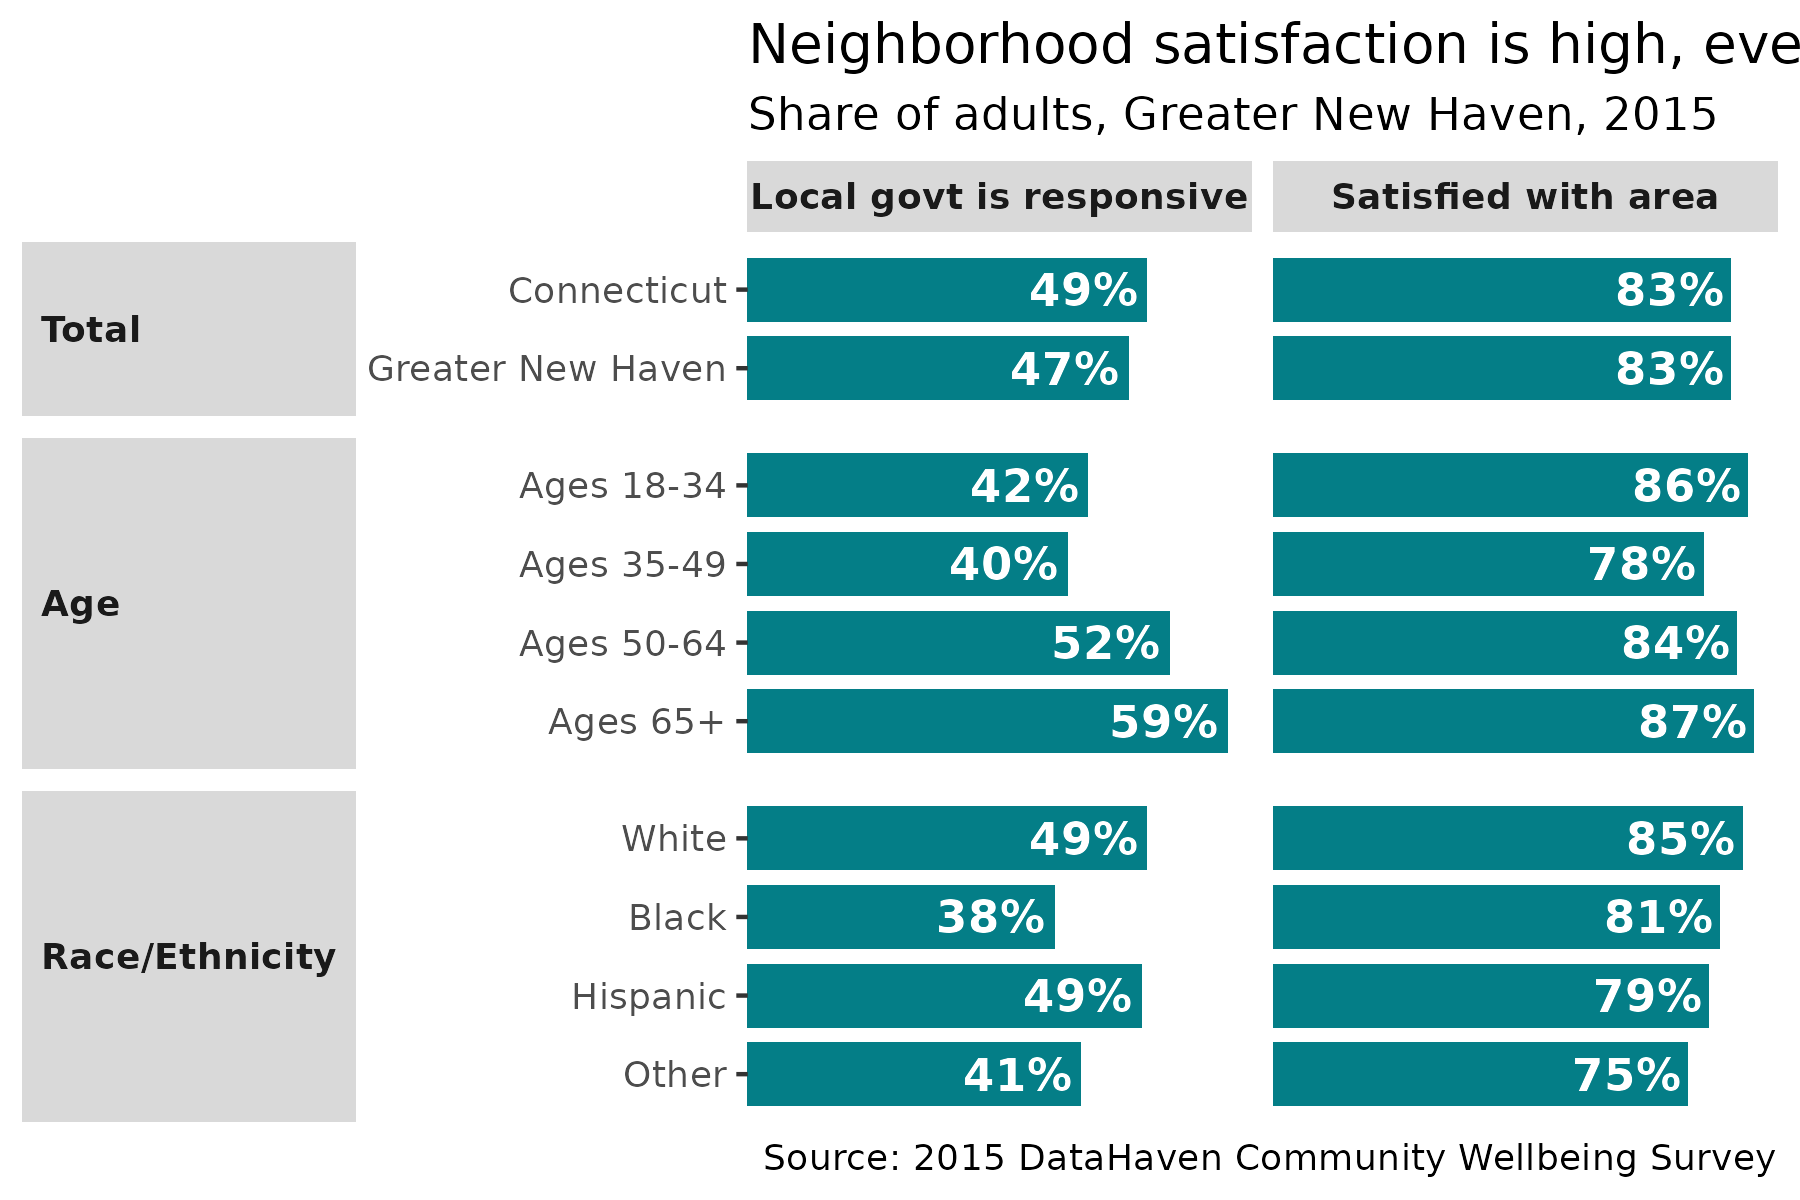
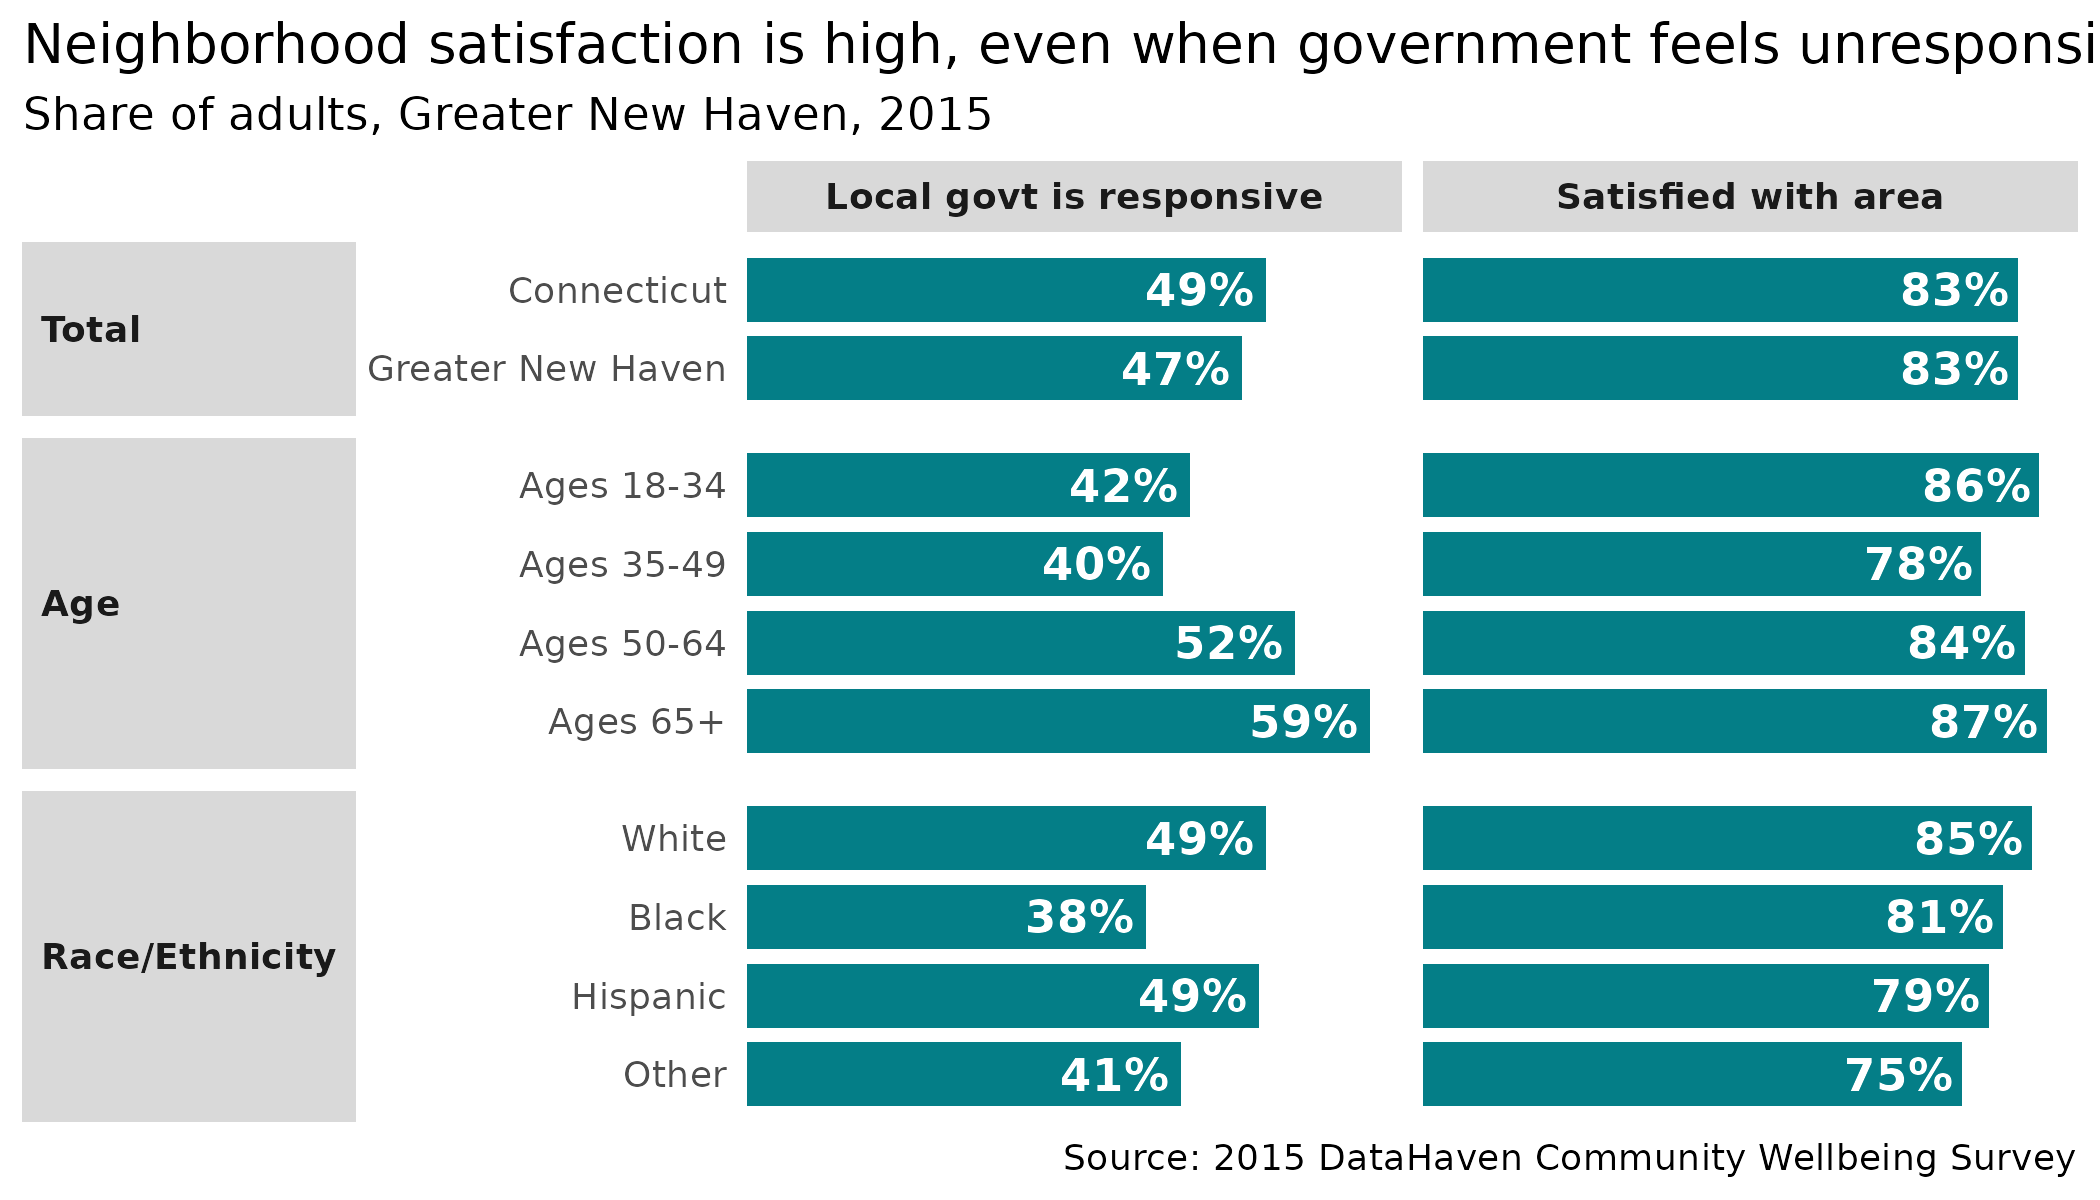
Built site for cwi: 0.3.0@4366a87

diff --git a/articles/crosstabs.html b/articles/crosstabs.html
@@ -111,7 +111,20 @@
 <div class="sourceCode" id="cb1"><pre class="downlit sourceCode r">
 <code class="sourceCode R"><span class="kw"><a href="https://rdrr.io/r/base/library.html">library</a></span><span class="op">(</span><span class="va"><a href="https://dplyr.tidyverse.org">dplyr</a></span><span class="op">)</span>
 <span class="kw"><a href="https://rdrr.io/r/base/library.html">library</a></span><span class="op">(</span><span class="va"><a href="http://stringr.tidyverse.org">stringr</a></span><span class="op">)</span>
-<span class="kw"><a href="https://rdrr.io/r/base/library.html">library</a></span><span class="op">(</span><span class="va"><a href="https://github.com/CT-Data-Haven/cwi">cwi</a></span><span class="op">)</span></code></pre></div>
+<span class="kw"><a href="https://rdrr.io/r/base/library.html">library</a></span><span class="op">(</span><span class="va"><a href="https://github.com/CT-Data-Haven/cwi">cwi</a></span><span class="op">)</span>
+
+<span class="co"># tiny theme of a few cleaned up arguments</span>
+<span class="va">theme_clean</span> <span class="op">&lt;-</span> <span class="kw">function</span><span class="op">(</span><span class="va">...</span><span class="op">)</span> <span class="op">{</span>
+  <span class="fu"><a href="https://ggplot2.tidyverse.org/reference/ggtheme.html">theme_gray</a></span><span class="op">(</span><span class="op">)</span> <span class="op">+</span>
+    <span class="fu"><a href="https://ggplot2.tidyverse.org/reference/theme.html">theme</a></span><span class="op">(</span>strip.placement <span class="op">=</span> <span class="st">"outside"</span>,
+        strip.text.y.left <span class="op">=</span> <span class="fu"><a href="https://ggplot2.tidyverse.org/reference/element.html">element_text</a></span><span class="op">(</span>angle <span class="op">=</span> <span class="fl">0</span>, hjust <span class="op">=</span> <span class="fl">0</span><span class="op">)</span>,
+        strip.text <span class="op">=</span> <span class="fu"><a href="https://ggplot2.tidyverse.org/reference/element.html">element_text</a></span><span class="op">(</span>face <span class="op">=</span> <span class="st">"bold"</span><span class="op">)</span>,
+        panel.grid <span class="op">=</span> <span class="fu"><a href="https://ggplot2.tidyverse.org/reference/element.html">element_blank</a></span><span class="op">(</span><span class="op">)</span>,
+        panel.background <span class="op">=</span> <span class="fu"><a href="https://ggplot2.tidyverse.org/reference/element.html">element_blank</a></span><span class="op">(</span><span class="op">)</span>,
+        plot.title.position <span class="op">=</span> <span class="st">"plot"</span>,
+        axis.ticks <span class="op">=</span> <span class="fu"><a href="https://ggplot2.tidyverse.org/reference/element.html">element_blank</a></span><span class="op">(</span><span class="op">)</span>,
+        <span class="va">...</span><span class="op">)</span>
+<span class="op">}</span></code></pre></div>
 <p>This is a quick look at using the crosstab-related functions being finished up for what will likely be <code>cwi</code> v.0.2.0. There are 3 test files of crosstabs that ship with this package for internal testing and illustration. This vignette recreates the data in the <code>cws_demo</code> dataset.</p>
 <div class="figure">
 <img src="../man/figures/xtab-screenshot.png" title="Screenshot of DCWS crosstabs spreadsheet" alt=""><p class="caption">Screenshot of DCWS crosstabs spreadsheet</p>
@@ -279,15 +292,12 @@
   <span class="fu"><a href="https://ggplot2.tidyverse.org/reference/scale_continuous.html">scale_y_continuous</a></span><span class="op">(</span>breaks <span class="op">=</span> <span class="cn">NULL</span>, expand <span class="op">=</span> <span class="fu"><a href="https://ggplot2.tidyverse.org/reference/expansion.html">expansion</a></span><span class="op">(</span>mult <span class="op">=</span> <span class="fu"><a href="https://rdrr.io/r/base/c.html">c</a></span><span class="op">(</span><span class="fl">0</span>, <span class="fl">0.05</span><span class="op">)</span><span class="op">)</span><span class="op">)</span> <span class="op">+</span>
   <span class="fu"><a href="https://ggplot2.tidyverse.org/reference/coord_flip.html">coord_flip</a></span><span class="op">(</span><span class="op">)</span> <span class="op">+</span>
   <span class="fu"><a href="https://ggplot2.tidyverse.org/reference/facet_grid.html">facet_grid</a></span><span class="op">(</span>rows <span class="op">=</span> <span class="fu"><a href="https://ggplot2.tidyverse.org/reference/vars.html">vars</a></span><span class="op">(</span><span class="va">category</span><span class="op">)</span>, scales <span class="op">=</span> <span class="st">"free_y"</span>, space <span class="op">=</span> <span class="st">"free_y"</span>, switch <span class="op">=</span> <span class="st">"y"</span><span class="op">)</span> <span class="op">+</span>
-  <span class="fu"><a href="https://ggplot2.tidyverse.org/reference/theme.html">theme</a></span><span class="op">(</span>strip.placement <span class="op">=</span> <span class="st">"outside"</span>,
-        strip.text.y.left <span class="op">=</span> <span class="fu"><a href="https://ggplot2.tidyverse.org/reference/element.html">element_text</a></span><span class="op">(</span>angle <span class="op">=</span> <span class="fl">0</span>, hjust <span class="op">=</span> <span class="fl">0</span>, face <span class="op">=</span> <span class="st">"bold"</span><span class="op">)</span>,
-        panel.grid <span class="op">=</span> <span class="fu"><a href="https://ggplot2.tidyverse.org/reference/element.html">element_blank</a></span><span class="op">(</span><span class="op">)</span>,
-        panel.background <span class="op">=</span> <span class="fu"><a href="https://ggplot2.tidyverse.org/reference/element.html">element_blank</a></span><span class="op">(</span><span class="op">)</span><span class="op">)</span> <span class="op">+</span>
+  <span class="fu">theme_clean</span><span class="op">(</span><span class="op">)</span> <span class="op">+</span>
   <span class="fu"><a href="https://ggplot2.tidyverse.org/reference/labs.html">labs</a></span><span class="op">(</span>x <span class="op">=</span> <span class="cn">NULL</span>, y <span class="op">=</span> <span class="cn">NULL</span>, 
        title <span class="op">=</span> <span class="st">"Neighborhood satisfaction is high across age and gender"</span>,
        subtitle <span class="op">=</span> <span class="st">"Share of adults satisfied with area, Greater New Haven, 2015"</span>,
        caption <span class="op">=</span> <span class="st">"Source: 2015 DataHaven Community Wellbeing Survey"</span><span class="op">)</span></code></pre></div>
-<p><img src="crosstabs_files/figure-html/chart-1.png" width="900"></p>
+<p><img src="crosstabs_files/figure-html/chart-1.png" width="1050"></p>
 <p>Note that different questions have different response values. In general, it’s better to work with each question separately; easy and safe ways to do this are to make separate data frames for different questions (e.g. with <code><a href="https://dplyr.tidyverse.org/reference/filter.html">dplyr::filter</a></code>), or by splitting (e.g. with <code><a href="https://rdrr.io/r/base/split.html">split(data$question)</a></code>) and iterating with <code>lapply</code> or <code><a href="https://purrr.tidyverse.org/reference/map.html">purrr::map</a></code> before binding or joining back together.</p>
 <div class="sourceCode" id="cb8"><pre class="downlit sourceCode r">
 <code class="sourceCode R"><span class="va">cws</span> <span class="op">%&gt;%</span>
@@ -344,16 +354,12 @@
   <span class="fu"><a href="https://ggplot2.tidyverse.org/reference/scale_continuous.html">scale_y_continuous</a></span><span class="op">(</span>breaks <span class="op">=</span> <span class="cn">NULL</span>, expand <span class="op">=</span> <span class="fu"><a href="https://ggplot2.tidyverse.org/reference/expansion.html">expansion</a></span><span class="op">(</span>mult <span class="op">=</span> <span class="fu"><a href="https://rdrr.io/r/base/c.html">c</a></span><span class="op">(</span><span class="fl">0</span>, <span class="fl">0.05</span><span class="op">)</span><span class="op">)</span><span class="op">)</span> <span class="op">+</span>
   <span class="fu"><a href="https://ggplot2.tidyverse.org/reference/coord_flip.html">coord_flip</a></span><span class="op">(</span><span class="op">)</span> <span class="op">+</span>
   <span class="fu"><a href="https://ggplot2.tidyverse.org/reference/facet_grid.html">facet_grid</a></span><span class="op">(</span>rows <span class="op">=</span> <span class="fu"><a href="https://ggplot2.tidyverse.org/reference/vars.html">vars</a></span><span class="op">(</span><span class="va">category</span><span class="op">)</span>, cols <span class="op">=</span> <span class="fu"><a href="https://ggplot2.tidyverse.org/reference/vars.html">vars</a></span><span class="op">(</span><span class="va">indicator</span><span class="op">)</span>, scales <span class="op">=</span> <span class="st">"free"</span>, space <span class="op">=</span> <span class="st">"free_y"</span>, switch <span class="op">=</span> <span class="st">"y"</span><span class="op">)</span> <span class="op">+</span>
-  <span class="fu"><a href="https://ggplot2.tidyverse.org/reference/theme.html">theme</a></span><span class="op">(</span>strip.placement <span class="op">=</span> <span class="st">"outside"</span>,
-        strip.text.y.left <span class="op">=</span> <span class="fu"><a href="https://ggplot2.tidyverse.org/reference/element.html">element_text</a></span><span class="op">(</span>angle <span class="op">=</span> <span class="fl">0</span>, hjust <span class="op">=</span> <span class="fl">0</span><span class="op">)</span>,
-        strip.text <span class="op">=</span> <span class="fu"><a href="https://ggplot2.tidyverse.org/reference/element.html">element_text</a></span><span class="op">(</span>face <span class="op">=</span> <span class="st">"bold"</span><span class="op">)</span>,
-        panel.grid <span class="op">=</span> <span class="fu"><a href="https://ggplot2.tidyverse.org/reference/element.html">element_blank</a></span><span class="op">(</span><span class="op">)</span>,
-        panel.background <span class="op">=</span> <span class="fu"><a href="https://ggplot2.tidyverse.org/reference/element.html">element_blank</a></span><span class="op">(</span><span class="op">)</span><span class="op">)</span> <span class="op">+</span>
+  <span class="fu">theme_clean</span><span class="op">(</span><span class="op">)</span> <span class="op">+</span>
   <span class="fu"><a href="https://ggplot2.tidyverse.org/reference/labs.html">labs</a></span><span class="op">(</span>x <span class="op">=</span> <span class="cn">NULL</span>, y <span class="op">=</span> <span class="cn">NULL</span>,
        title <span class="op">=</span> <span class="st">"Neighborhood satisfaction is high, even when government feels unresponsive"</span>,
        subtitle <span class="op">=</span> <span class="st">"Share of adults, Greater New Haven, 2015"</span>,
        caption <span class="op">=</span> <span class="st">"Source: 2015 DataHaven Community Wellbeing Survey"</span><span class="op">)</span></code></pre></div>
-<p><img src="crosstabs_files/figure-html/govt_chart-1.png" width="900"></p>
+<p><img src="crosstabs_files/figure-html/govt_chart-1.png" width="1050"></p>
 </div>
   </div>
 

diff --git a/articles/basic-workflow.html b/articles/basic-workflow.html
@@ -288,7 +288,7 @@
   <span class="co"># shortcut around tidyr::separate</span>
   <span class="fu"><a href="../reference/separate_acs.html">separate_acs</a></span><span class="op">(</span>into <span class="op">=</span> <span class="fu"><a href="https://rdrr.io/r/base/c.html">c</a></span><span class="op">(</span><span class="st">"sex"</span>, <span class="st">"age"</span><span class="op">)</span>, drop_total <span class="op">=</span> <span class="cn">TRUE</span><span class="op">)</span> <span class="op">%&gt;%</span>
   <span class="fu"><a href="https://dplyr.tidyverse.org/reference/filter.html">filter</a></span><span class="op">(</span><span class="op">!</span><span class="fu"><a href="https://rdrr.io/r/base/NA.html">is.na</a></span><span class="op">(</span><span class="va">age</span><span class="op">)</span><span class="op">)</span> <span class="op">%&gt;%</span>
-  <span class="fu"><a href="https://dplyr.tidyverse.org/reference/mutate.html">mutate</a></span><span class="op">(</span>age <span class="op">=</span> <span class="fu"><a href="https://rdrr.io/r/base/factor.html">as.factor</a></span><span class="op">(</span><span class="va">age</span><span class="op">)</span> <span class="op">%&gt;%</span> <span class="fu">forcats</span><span class="fu">::</span><span class="fu"><a href="https://forcats.tidyverse.org/reference/fct_inorder.html">fct_inorder</a></span><span class="op">(</span><span class="op">)</span><span class="op">)</span> <span class="op">%&gt;%</span>
+  <span class="fu"><a href="https://dplyr.tidyverse.org/reference/mutate.html">mutate</a></span><span class="op">(</span>age <span class="op">=</span> <span class="fu">forcats</span><span class="fu">::</span><span class="fu"><a href="https://forcats.tidyverse.org/reference/as_factor.html">as_factor</a></span><span class="op">(</span><span class="va">age</span><span class="op">)</span><span class="op">)</span> <span class="op">%&gt;%</span>
   <span class="fu"><a href="https://dplyr.tidyverse.org/reference/group_by.html">group_by</a></span><span class="op">(</span><span class="va">name</span>, <span class="va">level</span>, <span class="va">age</span><span class="op">)</span> <span class="op">%&gt;%</span>
   <span class="fu"><a href="https://dplyr.tidyverse.org/reference/summarise.html">summarise</a></span><span class="op">(</span>estimate <span class="op">=</span> <span class="fu"><a href="https://rdrr.io/r/base/sum.html">sum</a></span><span class="op">(</span><span class="va">estimate</span><span class="op">)</span>, moe <span class="op">=</span> <span class="fu">tidycensus</span><span class="fu">::</span><span class="fu"><a href="https://rdrr.io/pkg/tidycensus/man/moe_sum.html">moe_sum</a></span><span class="op">(</span><span class="va">moe</span>, <span class="va">estimate</span><span class="op">)</span> <span class="op">%&gt;%</span> <span class="fu"><a href="https://rdrr.io/r/base/Round.html">round</a></span><span class="op">(</span><span class="op">)</span><span class="op">)</span> <span class="op">%&gt;%</span>
   <span class="fu"><a href="https://dplyr.tidyverse.org/reference/group_by.html">ungroup</a></span><span class="op">(</span><span class="op">)</span>
